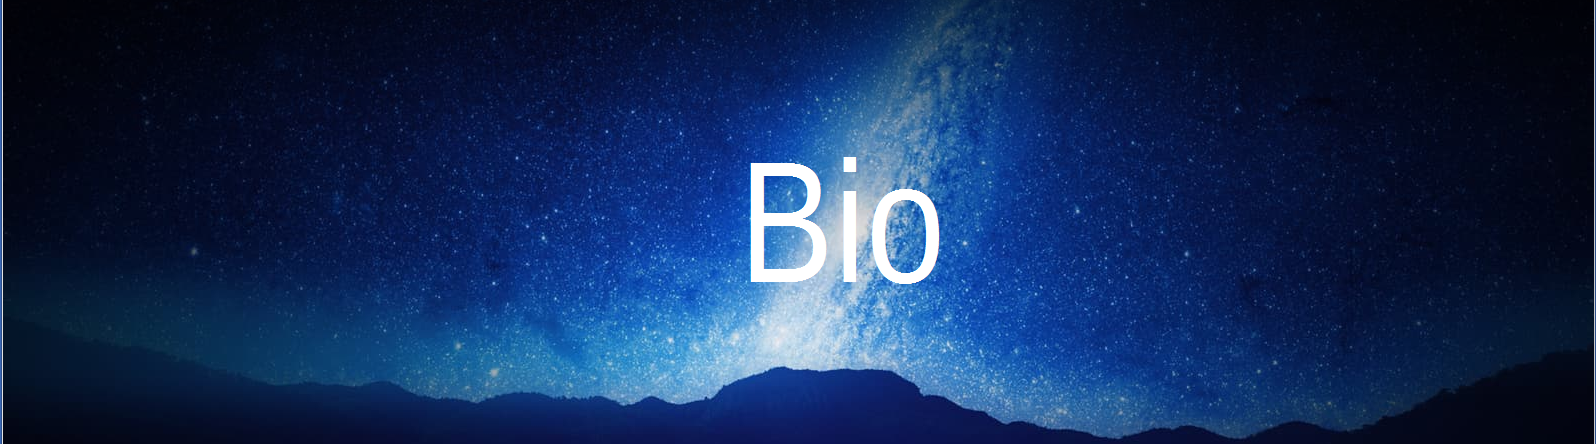
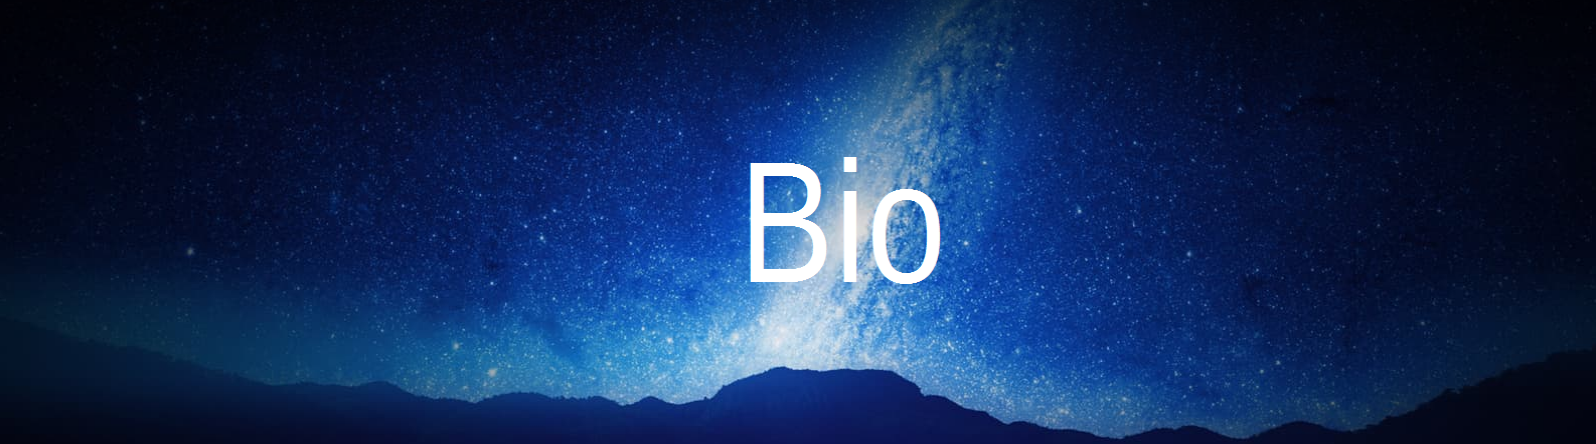
finished website

diff --git a/index.html b/index.html
@@ -16,19 +16,19 @@
   <link href='https://cdnjs.cloudflare.com/ajax/libs/devicons/1.8.0/css/devicons.min.css' rel='stylesheet'>
 
 </head>
-<body>
+<body class="indigo lighten-3">
 
 <div class="navbar-fixed">
-    <nav>
+    <nav class="indigo darken-4">
     <div class="container">
       <div class="nav-wrapper">
         <a href="#!" class="brand-logo">Nick C</a>
-        <ul id="nav-mobile" class="tabs ">
+        <ul id="nav-mobile" class="tabs indigo darken-2">
         <li class="tab col s1 offset-s8"><a class="active" href="#home"> <i class="fa fa-home fa-2x" aria-hidden="true"></i> Home</a> </li>
-        <li class="tab col s1"><a href="#bio">Bio</a></li>
-        <li class="tab col s1"><a href="#projects">Projects</a></li>
-        <li class="tab col s1"><a href="#skills">Skills</a></li>
-        <li class="tab col s1"><a href="#sociallinks">Social Links</a></li>
+        <li class="tab col s1"><a href="#bio"><i class="fa fa-user fa-2x" aria-hidden="true"></i>Bio</a></li>
+        <li class="tab col s1"><a href="#projects"><i class="fa fa-folder fa-2x" aria-hidden="true"></i>Projects</a></li>
+        <li class="tab col s1"><a href="#skills"><i class="fa fa-briefcase fa-2x" aria-hidden="true"></i>Skills</a></li>
+        <li class="tab col s1"><a href="#sociallinks"><i class="fa fa-share-square fa-2x" aria-hidden="true"></i>Social Links</a></li>
       </ul>
         </ul>
       </div>
@@ -48,31 +48,31 @@
 		<div class="slider">
     <ul class="slides">
       <li>
-        <img src="http://lorempixel.com/580/250/nature/1"> <!-- random image -->
+        <img src="img/bio-img.png">
         <div class="caption center-align">
-          <h3>Bio</h3>
-          <h5 class="light grey-text text-lighten-3">More information about me.</h5>
+          <h3 class="black-text">Bio</h3>
+          <h5 class="black-text text-lighten-3">More information about me.</h5>
         </div>
       </li>
       <li>
-        <img src="http://lorempixel.com/580/250/nature/2"> <!-- random image -->
+        <img src="img/trivia.png">
         <div class="caption center-align">
-          <h3>Projects</h3>
-          <h5 class="light grey-text text-lighten-3">Examples of work I have done in the past.</h5>
+          <h3 class="purple-text">Projects</h3>
+          <h5 class="purple-text text-lighten-2">Examples of work I have done in the past.</h5>
         </div>
       </li>
       <li>
-        <img src="http://lorempixel.com/580/250/nature/3"> <!-- random image -->
+        <img src="img/angular.png">
         <div class="caption center-align">
-          <h3>Skills</h3>
-          <h5 class="light grey-text text-lighten-3">Languages and Framework I am capable of using.</h5>
+          <h3 class="blue-text">Skills</h3>
+          <h5 class="blue-text text-lighten-2">Languages and Framework I am capable of using.</h5>
         </div>
       </li>
       <li>
-        <img src="http://lorempixel.com/580/250/nature/4"> <!-- random image -->
+        <img src="img/git.png">
         <div class="caption center-align">
-          <h3>Social Links</h3>
-          <h5 class="light grey-text text-lighten-3">How to contact me.</h5>
+          <h3 class="red-text">Social Links</h3>
+          <h5 class="red-text text-lighten-2">How to contact me.</h5>
         </div>
       </li>
     </ul>
@@ -85,13 +85,18 @@
 <!-- Bio -->
 <div id="bio">
   <img class="header-img" src="img/bio.png">
-  <div class="section white">
+  <div class="section">
     <div class="row container">
-      <div class="col s2">
-       <img id="bio-img" src="img/bio-img.png">
-      </div>
-      <div class="col s6">
-       <h5>I am a student who recently began learning the basics of web design and animation. I am also very skilled in math and science. In my free time I enjoy writing and being on the computer.</h5>
+      <div class="col s6 offset-s3">
+        <div class="card blue-grey darken-1">
+            <div class="card-image right">
+              <img id="bio-img" src="img/bio-img.png">
+            </div>
+            <div class="card-content white-text">
+              <span class="card-title"><h4>Nick C</h4></span>
+              <h5>I am a New Jersey highschool student who recently began learning the basics of web design and animation. I am also very skilled in math and science. In my free time I enjoy writing and being on the computer.</h5>
+            </div>
+          </div>     
       </div>
     </div>
   </div>
@@ -120,7 +125,8 @@
               </ul>
             </div>
             <div class="card-action">
-              <a href="http://nicholascastro.github.io/firstwebsite/homepage.html">Link</a>
+              <a target="_blank" href="http://nicholascastro.github.io/firstwebsite/homepage.html">Link</a>
+              <a target="_blank" href="https://github.com/NicholasCastro/firstwebsite">Github Link</a>
             </div>
           </div> <!-- First Website End -->
 
@@ -142,7 +148,8 @@
               </ul>
             </div>
             <div class="card-action">
-              <a href="http://nicholascastro.github.io/lyrics-website/Immortals.html">Link</a>
+              <a target="_blank" href="http://nicholascastro.github.io/lyrics-website/Immortals.html">Link</a>
+              <a target="_blank" href="https://github.com/NicholasCastro/lyrics-website">Github Link</a>
             </div>
           </div> <!-- Lyrics Website End -->
 
@@ -152,7 +159,7 @@
     <div class="row"> <!-- Row 2 start -->
       <div class="col s6">
 
-        <div class="card"> <!-- Trivia Start -->
+        <div class="card"> <!-- Fan Page Start -->
             <div class="card-image">
               <img src="img/fanpage.png">
               <span class="card-title">Movie Fan Page</span>
@@ -169,14 +176,15 @@
               </ul>
             </div>
             <div class="card-action">
-              <a href="http://nicholascastro.github.io/fan-page/fan-page.html">Link</a>
+              <a target="_blank" href="http://nicholascastro.github.io/fan-page/fan-page.html">Link</a>
+              <a target="_blank" href="https://github.com/NicholasCastro/fan-page">Github Link</a>
             </div>
-          </div> <!-- Trivia End -->
+          </div> <!-- Fan Page End -->
 
         </div>
         <div class="col s6">
 
-          <div class="card"> <!-- First Website Start -->
+          <div class="card"> <!-- Trivia Start -->
             <div class="card-image">
               <img src="img/trivia.png">
               <span class="card-title">Trivia Game</span>
@@ -193,16 +201,247 @@
               </ul>
             </div>
             <div class="card-action">
-              <a href="http://nicholascastro.github.io/trivia-game/trivia.html">Link</a>
+              <a target="_blank" href="http://nicholascastro.github.io/trivia-game/trivia.html">Link</a>
+              <a target="_blank" href="https://github.com/NicholasCastro/trivia-game">Github Link</a>
             </div>
-          </div> <!-- First Website End -->
+          </div> <!-- Trivia End -->
 
         </div>
     </div> <!-- Row 2 end -->
 
+    <div class="row"> <!-- Row 3 start -->
+      <div class="col s6">
+
+        <div class="card"> <!-- Mad Libs Start -->
+            <div class="card-image">
+              <img src="img/madlibs.png">
+              <span class="card-title black-text">Mad Libs</span>
+            </div>
+            <div class="card-content">
+              <p>An interactive webpage based on Mad Libs. The user inputs various words which are then inserted into a story. Made to demonstrate AngularJS and uses js to transition from the input card to the story card.</p>
+              <ul>
+              <p>Demonstrates usage of:</p>
+                <li>- <b>html</b></li>
+                <li>- <b>css</b></li>
+                <li>- <b>js</b></li>
+                <li>- <b>Materialize</b></li>
+                <li>- <b>animate.css</b></li>
+                <li>- <b>AngularJS</b></li>
+              </ul>
+            </div>
+            <div class="card-action">
+              <a target="_blank" href="http://nicholascastro.github.io/mad-libs/mad-libs.html">Link</a>
+              <a target="_blank" href="https://github.com/NicholasCastro/mad-libs">Github Link</a>
+            </div>
+          </div> <!-- Mad Libs End -->
+
+        </div>
+        <div class="col s6">
+
+          <div class="card"> <!-- To Do Start -->
+            <div class="card-image">
+              <img src="img/todo.png">
+              <span class="card-title black-text">ToDo List</span>
+            </div>
+            <div class="card-content">
+              <p>An app that allows the user to create a todo list. Features include the ability to add and remove items and change the title, as well as a counter that displays how many items are remaining. Made using AngularJS.</p>
+              <ul>
+              <p>Demonstrates usage of:</p>
+                <li>- <b>html</b></li>
+                <li>- <b>css</b></li>
+                <li>- <b>Materialize</b></li>
+                <li>- <b>AngularJS</b></li>
+              </ul>
+            </div>
+            <div class="card-action">
+              <a target="_blank" href="http://nicholascastro.github.io/todo-list/todo-list.html">Link</a>
+              <a target="_blank" href="https://github.com/NicholasCastro/todo-list">Github Link</a>
+            </div>
+          </div> <!-- Trivia End -->
+
+        </div>
+    </div> <!-- Row 3 end -->
+
   </div> <!-- Container end -->
 </div>
 <!-- Projects end -->
+
+
+<!-- Skills -->
+<div id="skills">
+  <img class="header-img" src="img/skills.png">
+
+  <div class="container">
+
+    <div class="row"> <!-- Row 1 Start -->
+
+        <div class="col s4"> <!-- GitHub Start -->
+          <div class="card center-align blue-grey darken-1">
+            <div class="row">
+              <div class="col s3 offset-s3">
+                <div class="card-content white-text">
+                  <span class="devicons devicons-github_badge fa-5x"></span>
+                  <h5>GitHub</h5>
+                </div>
+              </div>
+            </div>
+          </div>
+        </div> <!-- GitHub End -->
+
+        <div class="col s4"> <!-- html Start -->
+          <div class="card blue-grey darken-1">
+            <div class="row">
+              <div class="col s3 offset-s3">
+                <div class="card-content white-text">
+                  <span class="devicons devicons-html5 fa-5x"></span>
+                  <h5>HTML5</h5>
+                </div>
+              </div>
+            </div>
+          </div>
+        </div> <!-- html End -->
+
+        <div class="col s4"> <!-- css Start -->
+          <div class="card blue-grey darken-1">
+            <div class="row">
+              <div class="col s5 offset-s3">
+                <div class="card-content white-text">
+                  <span class="devicons devicons-css3 fa-5x"></span>
+                  <h5>CSS 3</h5>
+                </div>
+              </div>
+            </div>
+          </div>
+        </div> <!-- css End -->
+
+    </div><!-- Row 1 End -->
+
+    <div class="row"> <!-- Row 2 Start -->
+
+        <div class="col s4"> <!-- js Start -->
+          <div class="card center-align blue-grey darken-1">
+            <div class="row">
+                <div class="card-content white-text">
+                  <div class="row">
+                    <div class="col s3 offset-s4">
+                      <span class="devicons devicons-javascript_badge fa-5x"></span>
+                    </div>
+                  </div>
+                  <div class="row">
+                    <div class="col s3 offset-s3">
+                      <h5>JavaScript</h5>
+                    </div>
+                  </div>
+                </div>
+            </div>
+          </div>
+        </div> <!-- js End -->
+
+        <div class="col s4"> <!-- jquery Start -->
+          <div class="card center-align blue-grey darken-1">
+            <div class="row">
+                <div class="card-content white-text">
+                  <div class="row">
+                    <div class="col s3 offset-s4">
+                      <span class="devicons devicons-jquery fa-5x"></span>
+                    </div>
+                  </div>
+                  <div class="row">
+                    <div class="col s3 offset-s4">
+                      <h5>jquery</h5>
+                    </div>
+                  </div>
+                </div>
+            </div>
+          </div>
+        </div> <!-- jquery End -->
+
+        <div class="col s4"> <!-- git Start -->
+          <div class="card center-align blue-grey darken-1">
+            <div class="row">
+                <div class="card-content white-text">
+                  <div class="row">
+                    <div class="col s3 offset-s4">
+                      <span class="devicons devicons-git fa-5x"></span>
+                    </div>
+                  </div>
+                  <div class="row">
+                    <div class="col s3 offset-s4">
+                      <h5>Git</h5>
+                    </div>
+                  </div>
+                </div>
+            </div>
+          </div>
+        </div> <!-- git End -->
+
+    </div><!-- Row 2 End -->
+
+    <div class="row"> <!-- Row 3 Start -->
+
+        <div class="col s4 offset-s2"> <!-- angular Start -->
+          <div class="card center-align blue-grey darken-1">
+            <div class="row">
+                <div class="card-content white-text">
+                  <div class="row">
+                    <div class="col s3 offset-s4">
+                      <span class="devicons devicons-angular fa-5x"></span>
+                    </div>
+                  </div>
+                  <div class="row">
+                    <div class="col s3 offset-s3">
+                      <h5>AngularJS</h5>
+                    </div>
+                  </div>
+                </div>
+            </div>
+          </div>
+        </div> <!-- angular End -->
+
+        <div class="col s4"> <!-- materialize Start -->
+          <div class="card center-align blue-grey darken-1">
+            <div class="row">
+                <div class="card-content white-text">
+                  <div class="row">
+                    <div class="col s3 offset-s4">
+                      <span class="devicons devicons-materializecss fa-5x"></span>
+                    </div>
+                  </div>
+                  <div class="row">
+                    <div class="col s3 offset-s2">
+                      <h5>MaterializeCSS</h5>
+                    </div>
+                  </div>
+                </div>
+            </div>
+          </div>
+        </div> <!-- materialize End -->
+
+    </div><!-- Row 3 End -->
+
+  </div>
+</div>
+<!-- Skills End -->
+
+<!-- Social Links -->
+<div id="sociallinks">
+  <img class="header-img" src="img/social.png">
+  <div class="row container">
+    <div class="col s6 offset-s3">
+          <div class="card blue-grey darken-1">
+            <div class="card-content white-text">
+              <span class="card-title">GitHub</span>
+              <p>Where I keep all my files.</p>
+            </div>
+            <div class="card-action">
+              <a href="https://github.com/NicholasCastro">Link</a>
+
+            </div>
+          </div>
+    </div>
+  </div>
+</div>
+<!-- Social Links #nd -->
 
 <!-- Jquery -->
 <script src="https://ajax.googleapis.com/ajax/libs/jquery/2.2.2/jquery.min.js"></script>
